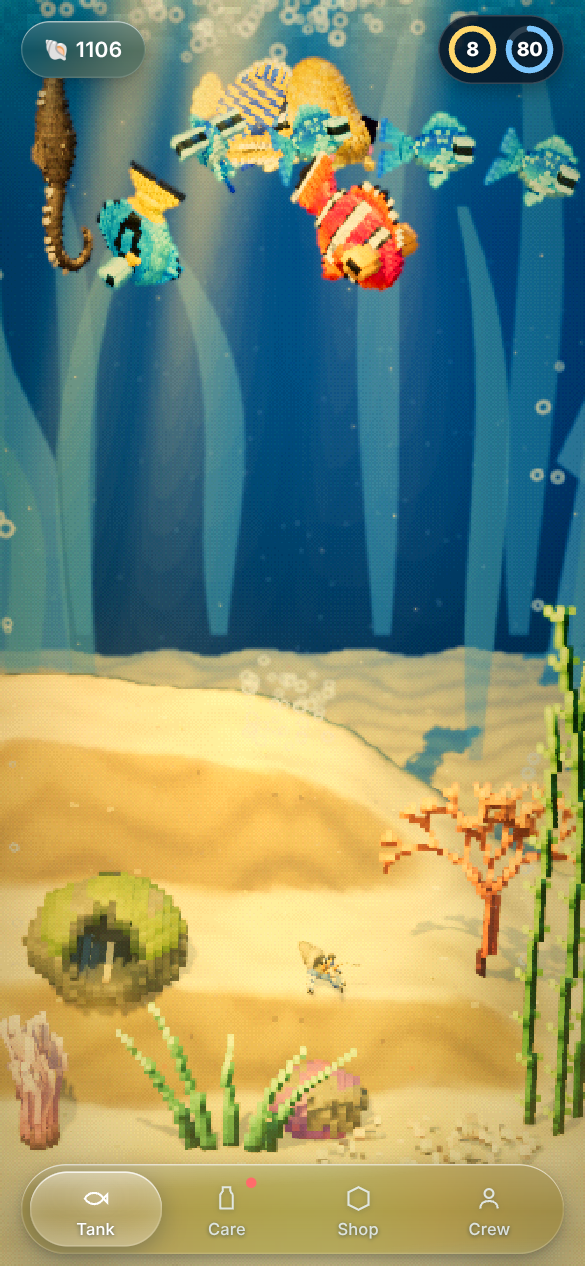
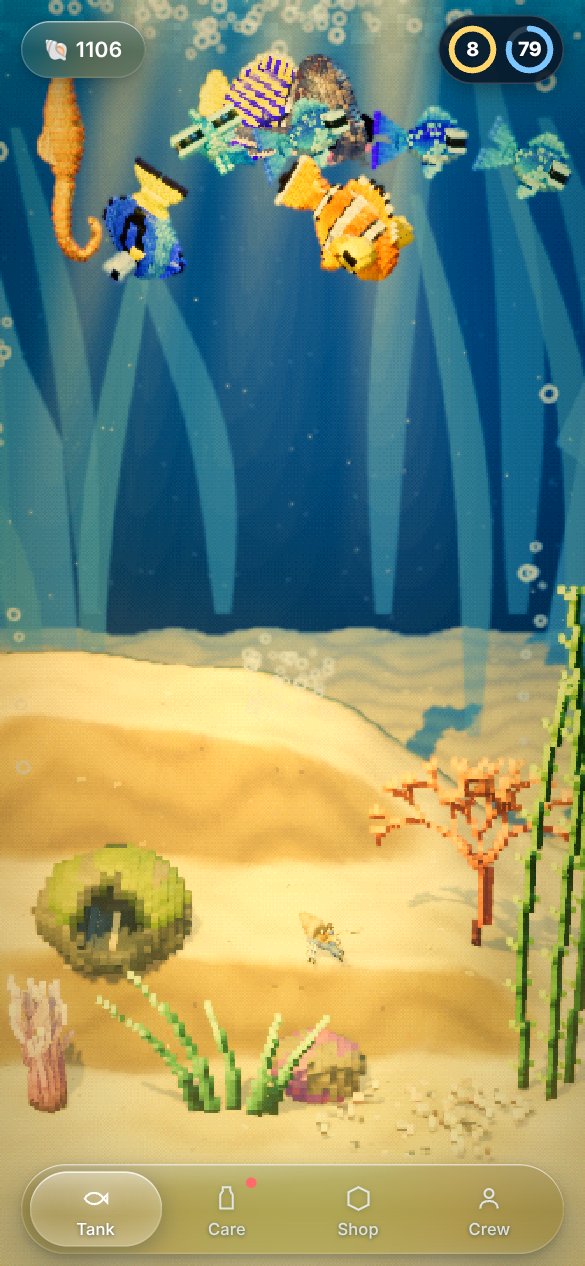
Audit: animal finish; cache v320
Claude-Session: https://claude.ai/code/session_01AcX8wdAS6t2Ysits5NhkSb

diff --git a/web/sw.js b/web/sw.js
@@ -1,5 +1,5 @@
 // Caches the app shell so the game opens instantly and keeps working without a connection (solo play).
-const V = 'ourtank-v319', SHELL = ['/', '/index.html', '/manifest.webmanifest', '/icon-192.png'];
+const V = 'ourtank-v320', SHELL = ['/', '/index.html', '/manifest.webmanifest', '/icon-192.png'];
 self.addEventListener('install', (e) => { e.waitUntil(caches.open(V).then((c) => c.addAll(SHELL)).then(() => self.skipWaiting())); });
 self.addEventListener('activate', (e) => { e.waitUntil(caches.keys().then((ks) => Promise.all(ks.filter((k) => k !== V).map((k) => caches.delete(k)))).then(() => self.clients.claim())); });
 self.addEventListener('fetch', (e) => {

diff --git a/TAKO_TANK_FINAL_AUDIT.md b/TAKO_TANK_FINAL_AUDIT.md
@@ -1,6 +1,6 @@
 # Tako Tank: Final Pre-iPhone Audit
 
-**Date:** 2026-10-23 · **Build:** branch `claude/our-tank-game-design-xhmavw`, cache version **v319** (Settings shows the build; pull to refresh twice).
+**Date:** 2026-10-23 · **Build:** branch `claude/our-tank-game-design-xhmavw`, cache version **v320** (Settings shows the build; pull to refresh twice).
 **No physical iPhone and no real player have been tested yet.** Everything below is from the code, unit tests and headless-browser drills (about 0.3 frames per second, so timings and smoothness on screen are unknown).
 
 ---
@@ -50,6 +50,7 @@ Homebody behavior, early trick progression (`twirl_check`), return news (`return
 ## 3. Also in this build
 - **Name:** Tako Tank everywhere (pages, manifest, push, share text, docs). Save keys unchanged.
 - **Logo and icons:** a voxel octopus perched on chunky cream letters, the O a ring with a wave; `web/logo.svg`, icons at 512/192/180. The loading screen carries the logo.
+- **Animal finish (designs unchanged):** a wet sheen on every animal's material, a slow mottling across each body so no patch of one color sits flat, warm light on backs and cooler bellies, deeper baked shade in the creases between fins and body. Eyes and glowing parts untouched. Sheet: `docs/audit/animals_before.png` / `animals_after.png` (the yellow bar through each fish is a hidden helper part the sheet tool draws; it is not in the game); close-up `docs/audit/fish_closeup.png`.
 - **Graphics, three passes, voxel look kept:** sand ripples and contact shadows under decorations, banks shaded on their faces and lit on top, far sand sinking into the water's color, stronger caustics and sunbeams, distant kelp that reads as kelp, brighter rim light, crisper voxel faces, edge shading on every voxel thing, water that deepens toward the sand, a calmer amber-and-blue dusk, more contrast, less blur in the distance. Before/after: `docs/audit/gfx_before_*.png`, `gfx_after_*.png`. **Frame cost not measured on a phone**; the added shader work is a handful of instructions per sand pixel and one `pow` per voxel pixel.
 
 ---
